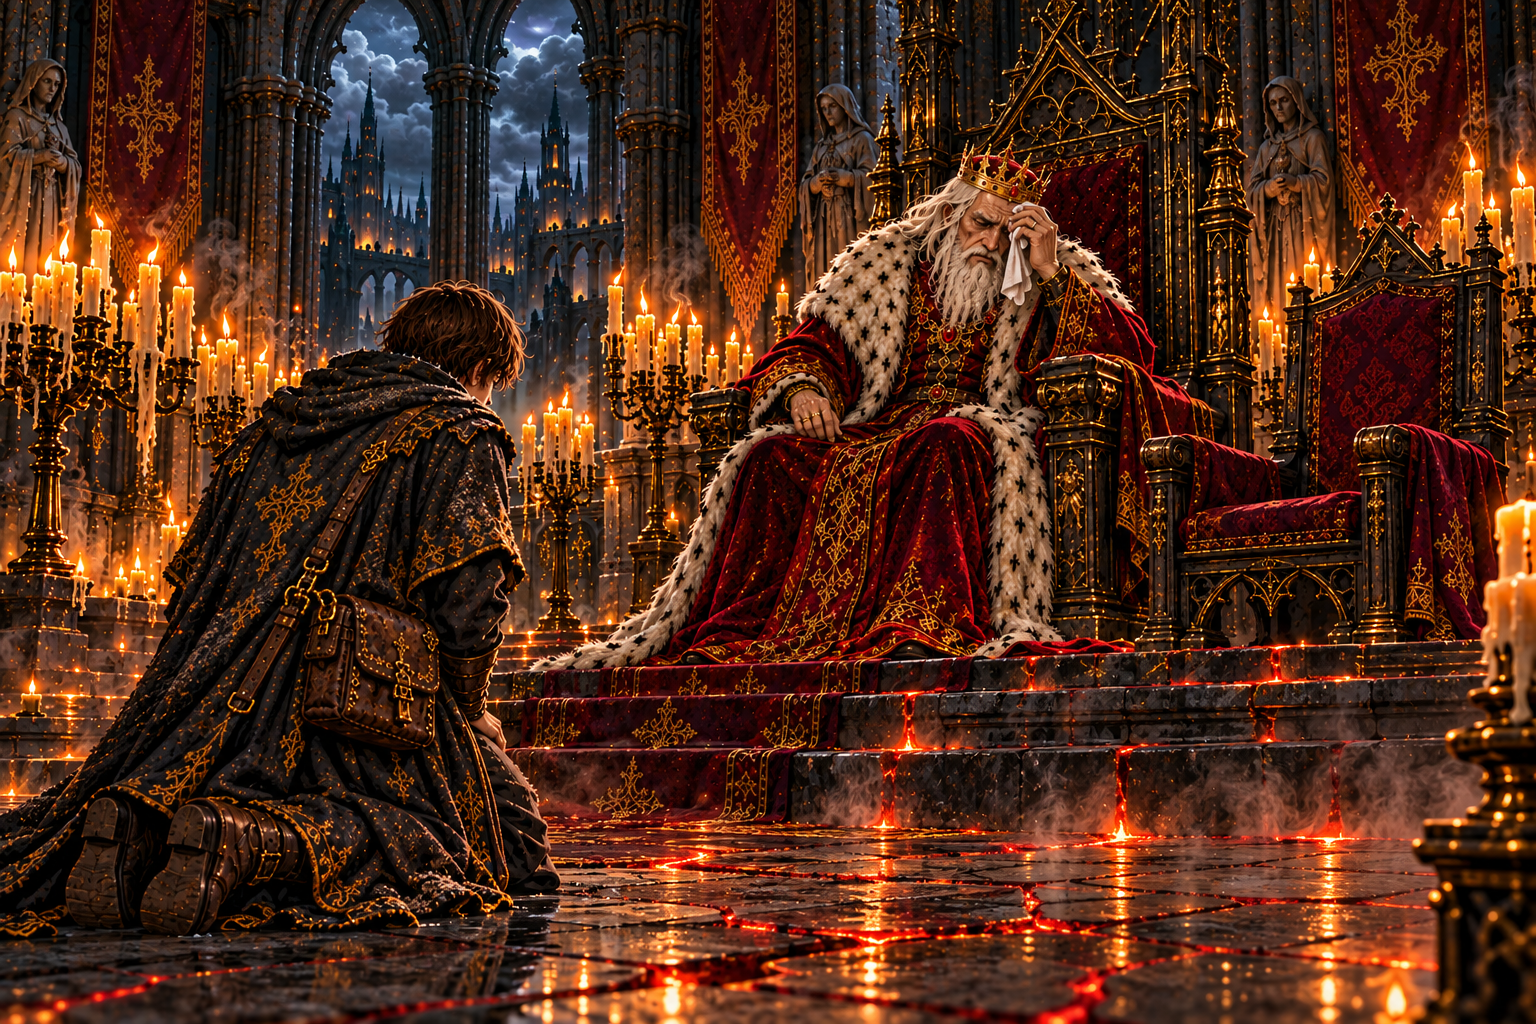
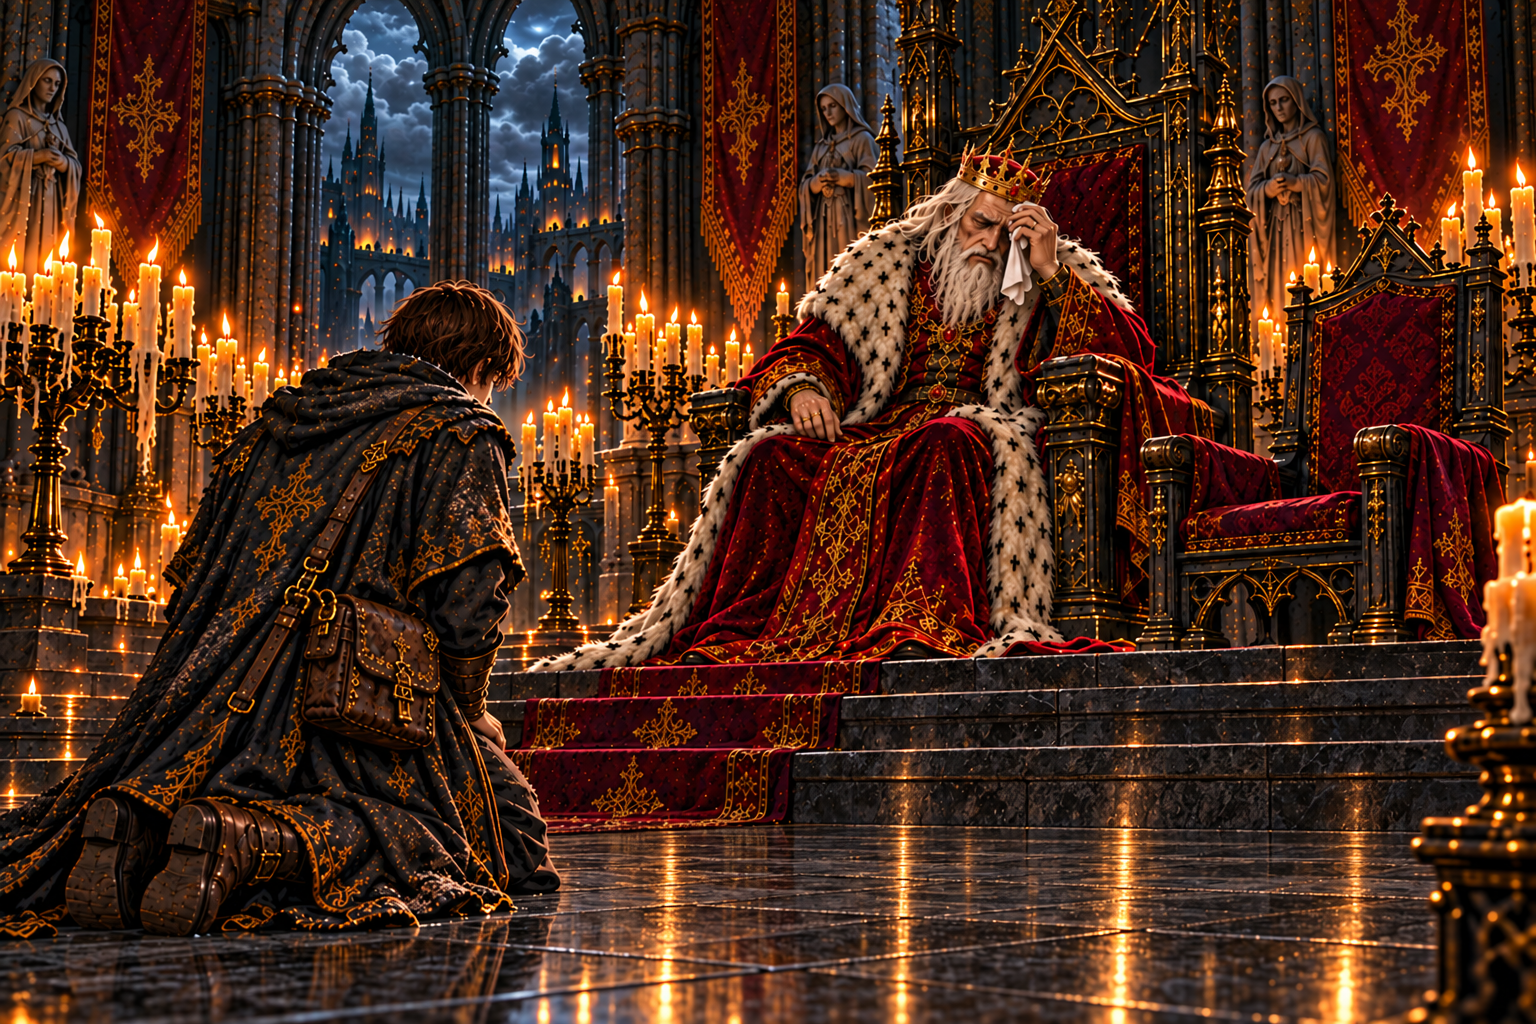
「床の下の熱」の床と階段を通常の石造りに修正

diff --git a/docs/art/codex-story-art-brief.md b/docs/art/codex-story-art-brief.md
@@ -533,6 +533,13 @@ Character reference sheet on a plain dark slate-blue background with soft even l
 ...except: correct ONLY the legs of the small wooden articulated doll seated on the cushion in the center foreground. Its back faces the camera and its torso faces the picture book. Correct the backward lower body: seat it naturally on the cushion with BOTH knees directed FORWARD toward the book, away from the camera. Fold the lower legs underneath its body in a natural kneeling sitting pose, with the backs of the heels and soles visible from behind. Do not extend the legs or point the toes backward toward the camera. Exactly two naturally connected wooden legs with black-iron knee and ankle joints. Allow the table to naturally occlude parts of the forward-facing legs. Preserve its leaning upper body and reading gesture, the other dolls, the book, the room, composition, style and lighting.
 ```
 
+**A-38. 第五章 report_w18「床の下の熱」の床の修正** `art/story-review/chapter5/report_w18.png` (済)
+- 直す (2026-10-17 ユーザーの指示): 玉座の間がやけに暑い程度なので、床と階段を通常の石造りに戻す。赤く光る亀裂・溶岩・床からの蒸気と赤い反射光を除去し、暑さは額をぬぐう王の仕草で伝える。
+- 保つもの: 王と弟子の姿・衣装・仕草、空いた宰相の席、絨毯、蝋燭、窓外の重い雲、構図・画風。修正前は `art/story-review/fixes/report_w18-before.png` に保存。
+```text
+...except: restore ONLY the floor and the throne dais steps to ordinary intact dark polished stone masonry with normal non-glowing tile joints. Remove ALL red-orange glowing fissures, lava, molten seams, fiery light from under the floor or steps, red reflections caused by those fissures, and ALL steam or smoke rising from the floor. The room is merely unusually hot, not visibly volcanic or structurally damaged. Normal warm candle reflections on the stone are allowed. Keep the king wiping his brow, the kneeling soot-covered apprentice, their faces, hands, clothes and crests, the empty chancellor chair, the red carpet, candles, gothic architecture, cloudy sky, camera composition, and fine-grained pixel-textured style unchanged. Do not add people or objects.
+```
+
 ### B. 任意 (余力があれば。読者が気づきやすい順)
 
 | 場面 | 直すこと |
@@ -655,9 +662,9 @@ Deep inside a volcanic fissure cave whose rock walls glow and pulse red with mag
 
 **report_w18「床の下の熱」** (報告)
 - 要点: 玉座の間がひどく暑く、王が何度も額をぬぐう。床の下で何かが煮えている音。弟子は煤だらけ。
-- 描くもの: 額を布でぬぐう王 / 床石のすき間から漏れる赤い光と陽炎 / 空いた宰相の席 / 煤だらけの弟子。
+- 描くもの: 額を布でぬぐう王 / 通常の石床と階段 (赤い亀裂・発光・蒸気なし) / 空いた宰相の席 / 煤だらけの弟子。
 ```text
-The same gothic throne room. The very old king (long white hair and beard, pointed gold crown, red robes, white ermine with black spots) sits on the throne wiping sweat from his brow with a cloth; the air wavers with heat shimmer and a faint red glow seeps up through cracks between the floor tiles, as if something boils beneath. The chancellor's chair beside the throne is conspicuously empty. The apprentice, cloak dusted with soot, kneels in rear three-quarter view. Heavy dark clouds outside the tall windows. Candles drooping in the heat.
+The same gothic throne room. The very old king (long white hair and beard, pointed gold crown, red robes, white ermine with black spots) sits on the throne wiping sweat from his brow with a cloth; the room is unusually hot, conveyed by his gesture, while the floor and dais steps remain ordinary intact dark stone with non-glowing joints, no molten cracks, no red light from below and no steam rising from the floor. The chancellor's chair beside the throne is conspicuously empty. The apprentice, cloak dusted with soot, kneels in rear three-quarter view. Heavy dark clouds outside the tall windows. Candles drooping in the heat.
 ```
 
 **w19_husks「同じ顔の器」** (手がかり / 迷宮「灰の降る祭場」)

diff --git a/art/story-review/review/chapter5.md b/art/story-review/review/chapter5.md
@@ -96,7 +96,7 @@
 **指示書 (4章)**
 
 - 要点: 玉座の間がひどく暑く、王が何度も額をぬぐう。床の下で何かが煮えている音。弟子は煤だらけ。
-- 描くもの: 額を布でぬぐう王 / 床石のすき間から漏れる赤い光と陽炎 / 空いた宰相の席 / 煤だらけの弟子。
+- 描くもの: 額を布でぬぐう王 / 通常の石床と階段 (赤い亀裂・発光・蒸気なし) / 空いた宰相の席 / 煤だらけの弟子。
 
 <a name="w19_husks"></a>
 
